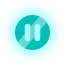
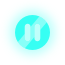
ui buttons

Changed region(s): [[0.2154, 0.2154, 0.7692, 0.7692]]

diff --git a/Starstruck/core/src/edu/cornell/gdiac/starstruck/GameController.java b/Starstruck/core/src/edu/cornell/gdiac/starstruck/GameController.java
@@ -93,8 +93,7 @@ public class GameController extends WorldController implements ContactListener {
     private Button pause;
     private Button play;
     private Button settings;
-    private Button levels;
-    private Button resume;
+    private Button back;
     private Button restart;
 
     /** Track asset loading from all instances and subclasses */
@@ -153,19 +152,16 @@ public class GameController extends WorldController implements ContactListener {
     private void drawUI(GameCanvas canvas) {
         OrthographicCamera camera = (OrthographicCamera) canvas.getCamera();
 
-        if (paused) {
-            //draw pause stuff
-            canvas.draw(pauseBackground, camera.position.x - ((float) canvas.getWidth())/2, camera.position.y - ((float) canvas.getHeight())/2);
+        float centerY = camera.position.y + canvas.getHeight()/2 - 50;
+        float centerX = camera.position.x + canvas.getWidth()/2 + 50;
+//        back.setPosition(centerX, centerY);
+//        restart.setPosition(centerX, centerY);
+//        settings.setPosition(centerX, centerY);
 
-            levels.draw(canvas);
-            restart.draw(canvas);
-            resume.draw(canvas);
-            play.draw(canvas);
-        } else {
-            //pause button
-            pause.draw(canvas);
-        }
-        // draw settings button no matter what!
+        System.out.println("what");
+
+        back.draw(canvas);
+        restart.draw(canvas);
         settings.draw(canvas);
     }
 
@@ -260,29 +256,17 @@ public class GameController extends WorldController implements ContactListener {
 
         //UI
 
-        TextureRegion buttonTexture = JsonAssetManager.getInstance().getEntry("levels button", TextureRegion.class);
-        levels = new Button(0,0, buttonTexture.getRegionWidth(), buttonTexture.getRegionHeight(), buttonTexture,
-                world, new Vector2(1,1), JsonAssetManager.getInstance().getEntry("levels glow", TextureRegion.class), "all levels");
+        TextureRegion buttonTexture = JsonAssetManager.getInstance().getEntry("exiti button", TextureRegion.class);
+        restart = new Button(30,30, buttonTexture.getRegionWidth(), buttonTexture.getRegionHeight(), buttonTexture,
+                world, new Vector2(1,1), JsonAssetManager.getInstance().getEntry("exiti glow", TextureRegion.class), "back");
 
-        buttonTexture = JsonAssetManager.getInstance().getEntry("replay button", TextureRegion.class);
-        restart = new Button(0,0, buttonTexture.getRegionWidth(), buttonTexture.getRegionHeight(), buttonTexture,
-                world, new Vector2(1,1), JsonAssetManager.getInstance().getEntry("replay glow", TextureRegion.class), "replay");
-
-        buttonTexture = JsonAssetManager.getInstance().getEntry("next button", TextureRegion.class);
-        resume = new Button(0,0, buttonTexture.getRegionWidth(), buttonTexture.getRegionHeight(), buttonTexture,
-                world, new Vector2(1,1), JsonAssetManager.getInstance().getEntry("next glow", TextureRegion.class), "next");
-
-        buttonTexture = JsonAssetManager.getInstance().getEntry("pausei button", TextureRegion.class);
-        pause = new Button(0,0, buttonTexture.getRegionWidth(), buttonTexture.getRegionHeight(), buttonTexture,
-                world, new Vector2(1,1), JsonAssetManager.getInstance().getEntry("pausei glow", TextureRegion.class), "next");
+        buttonTexture = JsonAssetManager.getInstance().getEntry("restarti button", TextureRegion.class);
+        back = new Button(30,30, buttonTexture.getRegionWidth(), buttonTexture.getRegionHeight(), buttonTexture,
+                world, new Vector2(1,1), JsonAssetManager.getInstance().getEntry("restarti glow", TextureRegion.class), "restart");
 
         buttonTexture = JsonAssetManager.getInstance().getEntry("settingsi button", TextureRegion.class);
         settings = new Button(buttonTexture.getRegionWidth()+10,buttonTexture.getRegionWidth() - 10, buttonTexture.getRegionWidth(), buttonTexture.getRegionHeight(), buttonTexture,
                 world, new Vector2(1,1), JsonAssetManager.getInstance().getEntry("settingsi glow", TextureRegion.class), "settings");
-
-        buttonTexture = JsonAssetManager.getInstance().getEntry("next button", TextureRegion.class);
-        play = new Button(buttonTexture.getRegionWidth()+10,buttonTexture.getRegionWidth() - 10, buttonTexture.getRegionWidth(), buttonTexture.getRegionHeight(), buttonTexture,
-                world, new Vector2(1,1), JsonAssetManager.getInstance().getEntry("next glow", TextureRegion.class), "play");;
 
         super.loadContent(manager);
         platformAssetState = AssetState.COMPLETE;
@@ -2258,6 +2242,7 @@ public class GameController extends WorldController implements ContactListener {
 
         canvas.begin();
         drawStarBar(canvas);
+        drawUI(canvas);
         OrthographicCamera camera = (OrthographicCamera) canvas.getCamera();
         if (tutDrawCache != null) {
             TextureRegion text = tutDrawCache.getTask();

diff --git a/Starstruck/core/src/edu/cornell/gdiac/starstruck/MenuMode.java b/Starstruck/core/src/edu/cornell/gdiac/starstruck/MenuMode.java
@@ -360,6 +360,7 @@ public class MenuMode extends WorldController implements Screen, InputProcessor,
         } else if (keycode == Input.Keys.ESCAPE) {
             pressState = 2;
             currentButton = quit;
+            quit.pushed = true;
             return false;
         }
         return true;
@@ -451,17 +452,17 @@ public class MenuMode extends WorldController implements Screen, InputProcessor,
             update(delta);
             draw(delta);
 
-            if (isReady() && currentButton == play) {
+            if (isReady() && play.pushed) {
                 listener.exitScreen(this, WorldController.EXIT_PLAY);
-            } else if (isReady() && currentButton == levels) {
+            } else if (isReady() && levels.pushed) {
                 listener.exitScreen(this, WorldController.EXIT_SELECT);
-            } else if (isReady() && currentButton == settings) {
+            } else if (isReady() && settings.pushed) {
                 listener.exitScreen(this, WorldController.EXIT_SETTINGS);
-            } else if (isReady() && currentButton == quit) {
+            } else if (isReady() && quit.pushed) {
                 listener.exitScreen(this, WorldController.EXIT_QUIT);
-            } else if (isReady() && currentButton == help) {
+            } else if (isReady() && help.pushed) {
                 listener.exitScreen(this, WorldController.EXIT_PLAY);
-            } else if (isReady() && currentButton == build) {
+            } else if (isReady() && build.pushed) {
                 listener.exitScreen(this, WorldController.EXIT_EDIT);
             }
         }

diff --git a/Starstruck/core/src/edu/cornell/gdiac/starstruck/Starstruck.java b/Starstruck/core/src/edu/cornell/gdiac/starstruck/Starstruck.java
@@ -132,7 +132,7 @@ public class Starstruck extends Game implements ScreenListener {
 	 * @param exitCode The state of the screen upon exit
 	 */
 	public void exitScreen(Screen screen, int exitCode, String json) {
-		canvas.resetCamera();
+
 		if (current == WorldController.EXIT_SETTINGS) {
 			if (Integer.valueOf(json) == 1) {
 				((GameController) controllers[WorldController.EXIT_PLAY]).setTwoplayer(false);
@@ -143,9 +143,11 @@ public class Starstruck extends Game implements ScreenListener {
 				current = WorldController.EXIT_PLAY;
 				setScreen(controllers[current]);
 			} else {
+				canvas.resetCamera();
 				exitScreen(screen, exitCode);
 			}
 		} else {
+			canvas.resetCamera();
 			if (exitCode == WorldController.EXIT_PLAY) {
 				current = WorldController.EXIT_PLAY;
 				((GameController) controllers[current]).setJson(json);

diff --git a/Starstruck/core/src/edu/cornell/gdiac/starstruck/Settings.java b/Starstruck/core/src/edu/cornell/gdiac/starstruck/Settings.java
@@ -345,8 +345,9 @@ public class Settings extends WorldController implements Screen, InputProcessor,
         if (buttons.getTail() == null) { return true; }
 
         if (keycode == Input.Keys.ESCAPE || keycode == Input.Keys.ENTER) {
+            if (numPlayers == 0 ) {numPlayers = 1;}
             pressState = 2;
-            currentButton = quit;
+            play.pushed = true;
             return false;
         }
         return true;
